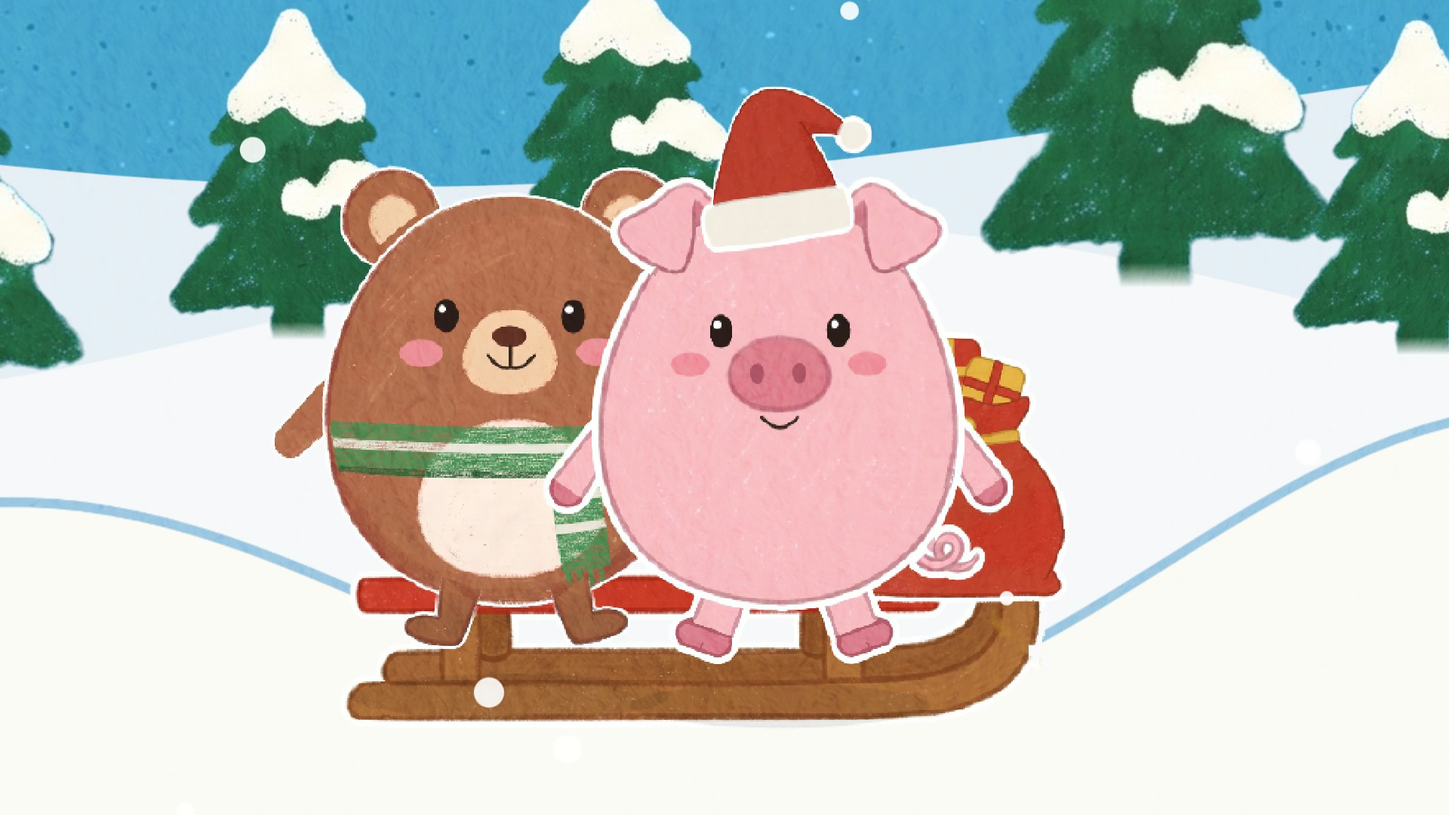
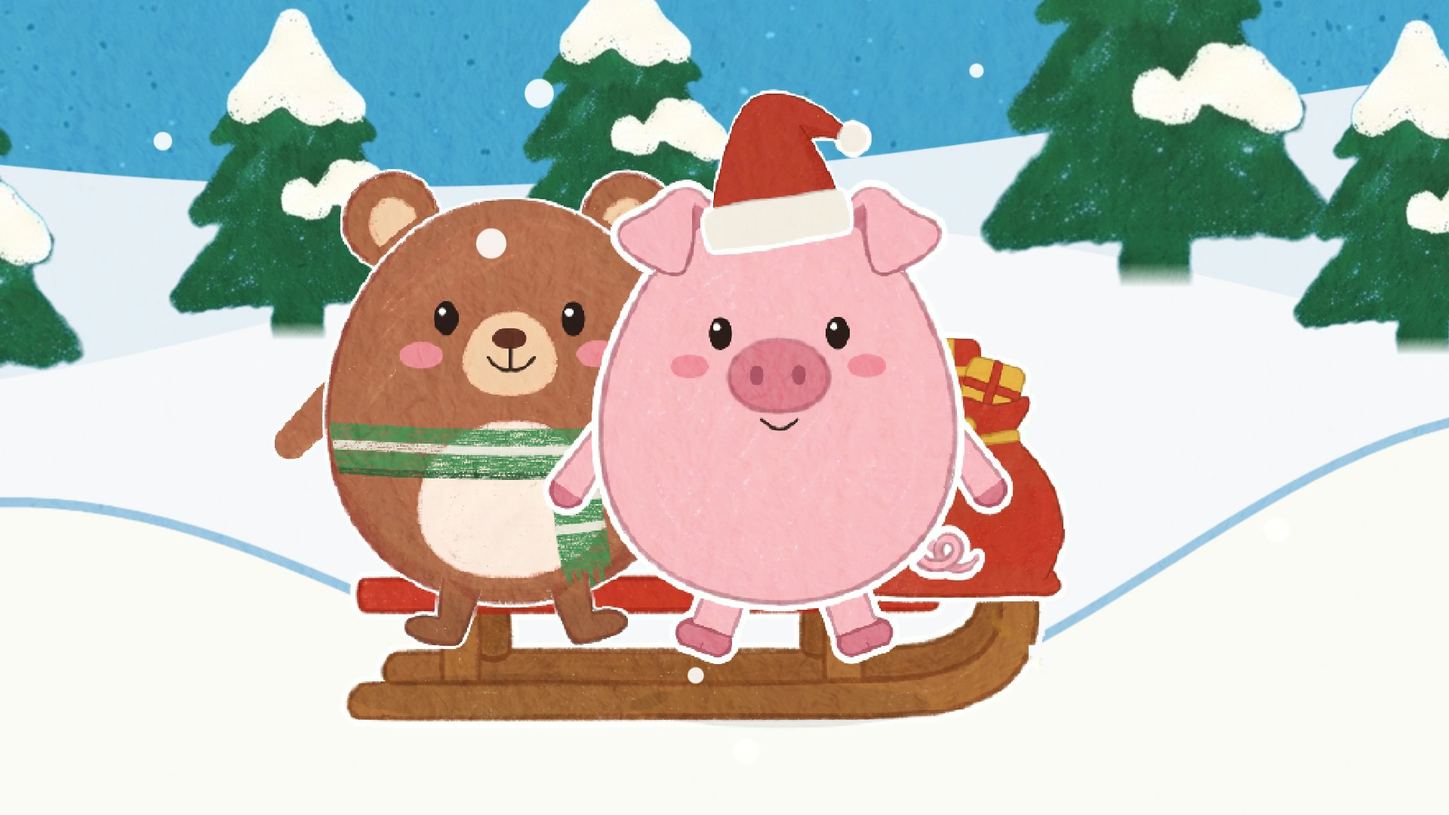
J04 Grisen åker pulka: QA 26/11 fixad – björnen bär säcken till nosen, står bakom pulkan när den knuffar, drivan växer ur snön, större kullåk, tydligare fast-läge (185,7 s, uppladdad som J04 granska)

diff --git a/produktion/youtube/shorts/jul/05-grisen-pulka/index.html b/produktion/youtube/shorts/jul/05-grisen-pulka/index.html
@@ -32,7 +32,7 @@ const STA = new URLSearchParams(location.search).has('staende');   // stående: 
 const KDRIVA = STA ? [620, 1300, 1.6] : [1060, 570, 1.4], KTVA = STA ? undefined : [1050, 470, 1.3];   // närbilderna (kam, bildens pixlar): pulkan i drivan, grisen och björnen
 const PULKABACKEN = '/assets/bakgrunder/pulkabacken/pulkabacken.jpeg';   // Sanna 2026-11-17: tagning 3 (bakgrunder/pulkabacken.md)
 const AKER = 'jul/05-grisen-aker', glid = vid => ['glid', vid, 1, 11];   // glid-1 är en mycket tyst fil: styrka 11
-const BX = -720;   // björnens plats bakom pulkan
+const BX = -790;   // björnens plats bakom pulkan (QA 26/11: −720 → −790, björnen står bakom pulkan med tassarna på lasten när den knuffar, inte inne i den)
 // säcken (assets/rekvisita/sack-paket, kritan ritar den): på sitsen bakom grisen (S), och framme vid pulkans nos (F) när björnen ska sitta. Från grisen, scenens mått
 const [SX, SY, FX, FY, SS] = [-340, -50, 280, -60, 0.5], [SX0, SY0] = [-620, 32];   // 11-19 (feedback J04 1:19): 30 högre upp på kälken   // SX0, SY0: där kritan ritar den (11-18 kväll), på sitsen längre bak
 const [DX, DY] = [350, 160], ST = 130, BS = 3 * ST, BL = BS + 90, AX = -400, KL = [120, 120], ARM = -16;   // drivan; knuffens längd; BS/BL: björnen efter knuffarna/när pulkan lossnat; AX: björnens plats på pulkan (närmare, 11-18)
@@ -46,7 +46,7 @@ const akning = (fran, till, D) => { const dt = 1 / 120, v = x => 1 - 0.55 * Math
 // 11-19 (feedback J04 1:19, "going on hills a longer time"): R1 börjar uppe på den höga kullen och åker över en låg kulle till (två wiii), R2 och R3 över tre kullar var
 const [D1, D2, D3] = [6.4, 10.4, 10.4], R1 = akning(KULL.P / 2, 2 * KULL.P, D1),
       R1N = R1.ner = [0.6, 1.6].map(f => Array.from({ length: Math.round(D1 * 120) }, (_, i) => R1.x(i / 120)).findIndex(u => u > f * KULL.P) / 120),
-      R2 = akning(0, 3 * KULL.P, D2), R3 = akning(3 * KULL.P, 6 * KULL.P, D3), ZV = 1.85;   // ZV: zoomen när de står still på kullarna (1,85 sedan 11-18 kväll: luvan och vinkningen får plats)
+      R2 = akning(0, 3 * KULL.P, D2), R3 = akning(3 * KULL.P, 6 * KULL.P, D3), ZV = 1.85, ZA = 1.6;   // ZA: zoomen under åken (QA 26/11)   // ZV: zoomen när de står still på kullarna (1,85 sedan 11-18 kväll: luvan och vinkningen får plats)
 const wiii = R => R.ner.map((v, i) => ['jul/05v2-wiii-' + (i % 3 + 1), 'Wiii!', v + 0.15]);   // 11-18 natt: Malins nya tagningar (manus v2), tre olika wiii
 // grundbilder (bildens pixlar): KE = grisen ensam, KW = med björnen, KW1–4 = kameran följer knuffarna
 const KE = [960, 480, 1.2], KW = [900, 500, 1.05], KW1 = [990, 500, 1.05], KW2 = [1080, 500, 1.05], KW3 = [1170, 500, 1.05], KW4 = [1230, 500, 1.05];   // KW 1,05 (11-18 kväll): björnen får plats
@@ -54,18 +54,26 @@ const KE = [960, 480, 1.2], KW = [900, 500, 1.05], KW1 = [990, 500, 1.05], KW2 =
 // rigg lindas så att vilan (som djur.js lägger på stilla-bitar) får nicken ovanpå
 // skaka: [sekunder, …] = grisen skakar surt på huvudet (1,4 s). Benen (11-19, feedback J04 2:13): alltid bakom kroppen, också när den sitter i pulkan
 // (djur.js pulka har benFram 1 för 039-stilen med benen fram)
-const V2 = window.v2rigg; window.v2rigg = async m => { const F = await V2(m); if (m !== 'grisen-greta') return F; const vila = F.vila, rita = F.rita;
+// björnen (QA 26/11, J04 2:06): när den bär säcken lyfts armarna window.BARLYFT() grader ovanpå knuffa-posen (räknas i scenen nedan)
+const V2 = window.v2rigg; window.v2rigg = async m => { const F = await V2(m);
+  if (m === 'bjornen-bulle') { const r0 = F.rita; F.rita = (g, f, p) => { const e = window.BARLYFT?.() ?? 0; return r0(g, f, e ? { ...p, armar: [(p.armar?.[0] ?? 0) + e, (p.armar?.[1] ?? 0) + e] } : p); }; return F; }
+  if (m !== 'grisen-greta') return F; const vila = F.vila, rita = F.rita;
   F.vila = (f, p, tt) => { const r = vila(f, p, tt), b = window.BITAR2?.findLast(q => tt >= q.t0), v = b?.nick?.find(v => tt - b.t0 >= v && tt - b.t0 <= v + 1.6),
     s = b?.skaka?.find(v => tt - b.t0 >= v && tt - b.t0 <= v + 1.4);
     return v != null ? F.nicka(r[0], r[1], tt - b.t0 - v) : s != null ? F.skakaHuvud(r[0], r[1], tt - b.t0 - s, 1.4, 2) : r; };
   F.rita = (g, f, p) => rita(g, f, { ...p, benFram: 0 });
   return F; };
+// QA 26/11: KSACK = grisen tittar bak på säcken, KMEDAR = närbild på medarna i drivan (bildens pixlar). KARM: björnens armar när den
+// knuffar, framåt mot lasten bak på pulkan (armarna är korta och sitter högt: pulkans sits når de inte från backen). BAR: björnen bär säcken (sekunder in i biten): steg = går N fram till säcken
+// [från, till], tag = tassarna på säcken, lyft = armarna lyfts [från, till] (lyftV grader, säcken över huvudet), ga = går [från, till] W fram, slapp = ställer ner säcken vid nosen; BARD = bitens längd
+const KSACK = STA ? undefined : [860, 540, 1.45], KMEDAR = STA ? undefined : [780, 800, 2.2], KARM = 30;
+const BAR = { steg: [0.1, 0.8], N: 70, tag: 0.9, lyft: [1.1, 1.8], lyftV: 95, ga: [1.8, 3.8], W: 560, slapp: 4.2, arm: -12 }, BARD = 6.8;
 const MED = (o = {}) => ({ 0: ['akmed', { x: AX, bak: true, ...o }] });
 const KOR = julDjur.kor({ kamBas: KE, ritIn: 1.4,
   tingrit: { sack: julDjur.ritbild('__ID__', 'sack-paket', 734, 808, [367, 806], SS, '#8E1E14') },
   lucka: 4, baddFil: 'assets/ljud/musik/jul/karol-jultomten.mp3', baddLangd: 180.01, baddVol: 0.3, djup: {}, tre: { z: { '#himmel': 1400 }, tack: ['#himmel'] }, figur: 'grisen-greta', vinkArm: [90, 18], sak: 'pulka', backe: STA ? 9 : 18, mys: false, ...(!STA && { bakgrund: PULKABACKEN }), vid: [STA ? 0.74 : 0.62, STA ? 880 : 790], snoa: true, sprut: [-640, -10],
   hattar: [[-1, 'luva', 512, 262, 0.36, -8]],   // 11-19: overall, jackor, vantar och stövlar bort (Sanna), bara luvan kvar
-  gaster: [['bjornen-bulle', BX, 1.0, 1]],
+  gaster: [['bjornen-bulle', BX, 1.0, 1]], gasterBak: [0],   // QA 26/11 (J04 1:50): björnen bakom säcken, pulkan och grisen hela tiden, inte inne i pulkan
   scen: [
     // A–B: det byggda. Kritan ritar pulkan, grisen blir glad, åker på backen, på kullarna (bara grisen) och på backen igen
     [2.9, 'vinka', { sag: [['jul/05v2-gris-hej', 'Nämen, hej grisen!', 0.5]], ljud: [['noff-gullig', 2.45, 7, 1.5, 1.5]] }],
@@ -96,7 +104,11 @@ const KOR = julDjur.kor({ kamBas: KE, ritIn: 1.4,
     [4.9, 'stilla', { armar: ARM, uttryck: 'forvanad', kam: KDRIVA, sag: [['jul/05v2-sjunker', 'Oj! Pulkan sjunker ner i snön.', 0.3], ['jul/05v2-tung', 'Säcken är så tung.', 2.9]] }],
     // D: grisen försöker glida, tre försök: pulkan sitter fast
     [4.4, 'ga', { armar: ARM, gang: [[0, 0], [0.8, -18], [1.6, 0], [2.4, -18], [3.2, 0]], glidar: true, uttryck: 'arg', nara: [0.8, 4.2], sag: [['jul/05v2-forsoker-aka', 'Grisen försöker åka.', 0.2], ['jul/05v2-sitter-fast-1', 'Nej, den sitter fast.', 2.0]], ljud: [['tra-knarr', 0.8, 1, 1.3], ['tra-knarr', 2.4, 2, 1.3], ['noff-gullig', 4.0, 4, 1.5, 1.0]] }],
-    [3.6, 'ga', { armar: ARM, gang: [[0, 0], [0.7, -18], [1.4, 0]], glidar: true, uttryck: 'arg', sag: [['jul/05v2-forsoker-igen', 'Grisen försöker igen.', 0.1], ['jul/05v2-sitter-fast-2', 'Den sitter fast.', 1.7]], ljud: [['tra-knarr', 0.7, 1, 1.3]] }],
+    // QA 26/11 (J04 0:57–1:23, varje försök såg likadant ut): grisen tittar bak på säcken, närbild på medarna i drivan, en suck, och andra försöket gungar större
+    [2.0, 'stilla', { armar: ARM, uttryck: 'forvanad', titt: [-9, 1], kam: KSACK, ljud: [['noff-djup', 0.9, 1, 1.2, 0.8]] }],
+    [2.0, 'stilla', { armar: ARM, uttryck: 'arg', kam: KMEDAR, tipp: [[0.3, 0.9, 1.5], [1.0, 1.6, 1.5]], ljud: [['tra-knarr', 0.35, 2, 1.1], ['tra-knarr', 1.05, 1, 1.0]] }],
+    [1.8, 'stilla', { armar: ARM, uttryck: 'ledsen', ljud: [['gran-suck', 0.25, 2, 1.4]] }],
+    [3.8, 'ga', { armar: ARM, gang: [[0, 0], [0.6, -34], [1.5, 0]], tipp: [[0.4, 1.7, 5]], glidar: true, uttryck: 'arg', sag: [['jul/05v2-forsoker-igen', 'Grisen försöker igen.', 0.1], ['jul/05v2-sitter-fast-2', 'Den sitter fast.', 1.9]], ljud: [['tra-knarr', 0.6, 1, 1.5], ['tra-knarr', 1.3, 2, 1.2]] }],
     // 11-19 (feedback J04 1:10, "more focus on grisen blir sur"): reaktionsslag i närbild, grisen fnyser och skakar surt på huvudet
     [2.8, 'stilla', { armar: ARM, uttryck: 'arg', nara: true, skaka: [0.7], ljud: [['fnys', 0.35, 1, 1.2], ['noff-djup', 1.6, 1, 1.3, 0.8]] }],
     [4.8, 'ga', { armar: ARM, gang: [[0, 0], [0.6, -18], [1.2, 0]], glidar: true, uttryck: 'ledsen', nara: [1.3, 4.8], sag: [['jul/05v2-trott', 'Grisen blir trött.', 1.6], ['jul/05v2-vad-gor-vi', 'Vad gör vi nu?', 3.6]], ljud: [['tra-knarr', 0.6, 1, 1.3], ['noff-gullig', 3.0, 4, 1.5, 1.0]] }],
@@ -106,18 +118,20 @@ const KOR = julDjur.kor({ kamBas: KE, ritIn: 1.4,
     // 11-18 natt (manus v2): Malin frågar björnen, björnen nickar och brummar ja
     [4.4, 'stilla', { armar: ARM, ser: [-60, 0], med: { 0: 'nicka' }, sag: [['jul/05v2-hjalpa-grisen', 'Björnen, kan du hjälpa grisen?', 0.2], ['jul/05v2-vill-hjalpa', 'Björnen vill hjälpa!', 2.9]], ljud: [['brum-gullig', 2.35, 2]] }],
     [2.8, 'stilla', { armar: ARM, uttryck: 'jatteglad', nara: true, naraDx: 230, sag: [['jul/05v2-gris-glad', 'Grisen blir så glad!', 0.5]], ljud: [['noff-fniss', 2.1, 1, 1.5, 0.7]] }],
-    [3.9, 'stilla', { armar: ARM, med: { 0: ['knuffa', { gang: [[0, 0]], knuff: [[1.9, 1e9]] }] }, sag: [['jul/05v2-stark', 'Björnen är stark.', 0.3], ['jul/05v2-kan-knuffa', 'Björnen kan knuffa!', 2.3]] }],
-    [7.0, 'stilla', { armar: ARM, med: { 0: ['knuffa', { gang: [[0, 0]], knuff: [[-1, 6.45]] }] }, sag: [['jul/05v2-hjalpa-till', 'Kan du hjälpa till?', 0.4], ['jul/05v2-heja', 'Kan du heja? Heja, grisen!', 1.8]] }],
+    [3.9, 'stilla', { armar: ARM, med: { 0: ['knuffa', { gang: [[0, 0]], knuff: [[1.9, 1e9]], armar: KARM }] }, sag: [['jul/05v2-stark', 'Björnen är stark.', 0.3], ['jul/05v2-kan-knuffa', 'Björnen kan knuffa!', 2.3]] }],
+    [7.0, 'stilla', { armar: ARM, med: { 0: ['knuffa', { gang: [[0, 0]], knuff: [[-1, 6.45]], armar: KARM }] }, sag: [['jul/05v2-hjalpa-till', 'Kan du hjälpa till?', 0.4], ['jul/05v2-heja', 'Kan du heja? Heja, grisen!', 1.8]] }],
     // F: tre heja, och för varje heja knuffar björnen pulkan ett stycke; kameran följer lugnt med
-    [3.4, 'ga', { armar: ARM, kamTill: [...KW1, 0.5, 1.6], gang: [[0, 0], [0.5, 0], [1.4, ST], [3.4, ST]], glidar: true, tipp: [[0.5, 1.6, 4]], heja: [[0.15, 1.5]], med: { 0: ['knuffa', { gang: [[0, 0], [0.5, 0], [1.4, 1 * ST], [3.4, 1 * ST]], knuff: [[0.5, 1.4]] }] }, sag: [['jul/05v2-heja-a', 'Heja!', 0.2]], ljud: [['dunk', 0.6, 1, 2.0], glid(0.7)] }],
-    [3.4, 'ga', { bas: KW1, kamTill: [...KW2, 0.5, 1.6], armar: ARM, gang: [[0, 0], [0.5, 0], [1.4, ST], [3.4, ST]], glidar: true, tipp: [[0.5, 1.6, 4]], heja: [[0.15, 1.5]], med: { 0: ['knuffa', { gang: [[0, 1 * ST], [0.5, 1 * ST], [1.4, 2 * ST], [3.4, 2 * ST]], knuff: [[0.5, 1.4]] }] }, sag: [['jul/05v2-heja-b', 'Heja!', 0.2]], ljud: [['dunk', 0.6, 2, 2.0], glid(0.7)] }],
-    [3.7, 'ga', { bas: KW2, kamTill: [...KW3, 0.5, 1.6], armar: ARM, gang: [[0, 0], [0.5, 0], [1.4, ST], [3.7, ST]], glidar: true, tipp: [[0.5, 1.6, 4]], heja: [[0.15, 1.5]], med: { 0: ['knuffa', { gang: [[0, 2 * ST], [0.5, 2 * ST], [1.4, 3 * ST], [3.7, 3 * ST]], knuff: [[0.5, 1.4]] }] }, sag: [['jul/05v2-heja-c', 'Heja!', 0.2]], ljud: [['dunk', 0.6, 3, 2.0], glid(0.7)] }],
-    [3.4, 'ga', { bas: KW3, kamTill: [...KW4, 0.5, 1.8], armar: ARM, gang: [[0, 0], [0.5, 0], [1.6, 90], [3.4, 90]], glidar: true, tipp: [[0.5, 1.6, 3]], med: { 0: ['knuffa', { gang: [[0, BS], [0.5, BS], [1.6, BL], [3.4, BL]], knuff: [[0.5, 1.6]] }] }, sjunk: [[0.5, 34], [1.3, 0]], ting: { driva: [[0.5, DX, DY, 2.0, 1, 0, 1], [1.2, DX, DY, 2.2, 0, 0, 1]] }, sag: [['jul/05v2-ror-sig', 'Nu rör den sig!', 1.0]], ljud: [['pulka-glid', 0.5, 4, 1.0], glid(0.6), ['noff-glad', 2.2, 1, 1.5, 1.2]] }],   // 11-18 natt: glad i stället för ännu ett fniss
+    [3.4, 'ga', { armar: ARM, kamTill: [...KW1, 0.5, 1.6], gang: [[0, 0], [0.5, 0], [1.4, ST], [3.4, ST]], glidar: true, tipp: [[0.5, 1.6, 4]], heja: [[0.15, 1.5]], med: { 0: ['knuffa', { gang: [[0, 0], [0.5, 0], [1.4, 1 * ST], [3.4, 1 * ST]], knuff: [[0.5, 1.4]], armar: KARM }] }, sag: [['jul/05v2-heja-a', 'Heja!', 0.2]], ljud: [['dunk', 0.6, 1, 2.0], glid(0.7)] }],
+    [3.4, 'ga', { bas: KW1, kamTill: [...KW2, 0.5, 1.6], armar: ARM, gang: [[0, 0], [0.5, 0], [1.4, ST], [3.4, ST]], glidar: true, tipp: [[0.5, 1.6, 4]], heja: [[0.15, 1.5]], med: { 0: ['knuffa', { gang: [[0, 1 * ST], [0.5, 1 * ST], [1.4, 2 * ST], [3.4, 2 * ST]], knuff: [[0.5, 1.4]], armar: KARM }] }, sag: [['jul/05v2-heja-b', 'Heja!', 0.2]], ljud: [['dunk', 0.6, 2, 2.0], glid(0.7)] }],
+    [3.7, 'ga', { bas: KW2, kamTill: [...KW3, 0.5, 1.6], armar: ARM, gang: [[0, 0], [0.5, 0], [1.4, ST], [3.7, ST]], glidar: true, tipp: [[0.5, 1.6, 4]], heja: [[0.15, 1.5]], med: { 0: ['knuffa', { gang: [[0, 2 * ST], [0.5, 2 * ST], [1.4, 3 * ST], [3.7, 3 * ST]], knuff: [[0.5, 1.4]], armar: KARM }] }, sag: [['jul/05v2-heja-c', 'Heja!', 0.2]], ljud: [['dunk', 0.6, 3, 2.0], glid(0.7)] }],
+    [3.4, 'ga', { bas: KW3, kamTill: [...KW4, 0.5, 1.8], armar: ARM, gang: [[0, 0], [0.5, 0], [1.6, 90], [3.4, 90]], glidar: true, tipp: [[0.5, 1.6, 3]], med: { 0: ['knuffa', { gang: [[0, BS], [0.5, BS], [1.6, BL], [3.4, BL]], knuff: [[0.5, 1.6]], armar: KARM }] }, sjunk: [[0.5, 34], [1.3, 0]], ting: { driva: [[0.5, DX, DY, 2.0, 1, 0, 1], [1.2, DX, DY, 2.2, 0, 0, 1]] }, sag: [['jul/05v2-ror-sig', 'Nu rör den sig!', 1.0]], ljud: [['pulka-glid', 0.5, 4, 1.0], glid(0.6), ['noff-glad', 2.2, 1, 1.5, 1.2]] }],   // 11-18 natt: glad i stället för ännu ett fniss
     // 11-18 kväll: "Hurra! Det gick!" när pulkan kommer loss (förut i dalen på slutet)
     [3.8, 'stilla', { bas: KW4, armar: ARM, uttryck: 'jatteglad', kam: KTVA, med: { 0: ['knuffa', { gang: [[0, BL]], knuff: [], uttryck: 'jatteglad' }] }, sag: [['jul/05v2-hurra', 'Hurra! Det gick!', 0.3], ['jul/05v2-kom-loss', 'Pulkan kom loss.', 2.1]], ljud: [['brum-gullig', 3.35, 2]] }],
-    // björnen vill sitta: den lyfter säcken från sin plats på sitsen och den glider i en låg båge fram till pulkans nos, och hoppar sedan upp bakom grisen
-    [3.4, 'stilla', { armar: ARM, ser: [-60, 0], med: { 0: ['lyfta', { vid: [0.4], dx: BL, lyftVinkel: 70 }] }, sag: [['jul/05v2-tillsammans', 'Nu kan ni åka tillsammans.', 0.2]], ting: { sack: [[0.5, SX, SY, 1, 1, 0, 1], [1.5, (SX + FX) / 2, SY - 110, 1, 1, 0, 1], [2.5, FX, FY, 1, 1, 0, 1]] }, ljud: [['dunk', 2.45, 2, 1.6]] }],
-    [3.2, 'stilla', { armar: ARM, ser: [-60, 0], med: MED({ hopp: [0.4, 1.4], fran: BL }), sag: [['jul/05v2-sitter-bak', 'Björnen sätter sig där bak.', 1.6]], ljud: [['hopp-mjuk', 0.4, 1], ['landa-mjuk', 1.35, 1]] }],
+    // björnen vill sitta: den tar säcken med tassarna, lyfter den och bär den bakom grisen fram till pulkans nos, ställer ner den och går tillbaka,
+    // och hoppar sedan upp bakom grisen. QA 26/11 (J04 2:06): förut flög säcken av sig själv bakom björnens öra. Tassarna ligger på säcken hela vägen (BAR nedan)
+    [BARD, 'stilla', { armar: ARM, ser: [-60, 0], med: { 0: ['knuffa', { gang: [[0, BL], [BAR.steg[0], BL], [BAR.steg[1], BL + BAR.N], [BAR.ga[0], BL + BAR.N], [BAR.ga[1], BL + BAR.N + BAR.W], [BAR.slapp + 0.5, BL + BAR.N + BAR.W], [BARD - 0.3, BL + BAR.N]], knuff: [[BAR.tag, BAR.slapp]], armar: BAR.arm, uttryck: 'glad' }] },
+      sag: [['jul/05v2-tillsammans', 'Nu kan ni åka tillsammans.', 0.2]], ting: { sack: [[BAR.lyft[0], SX, SY, 1, 1, 0, 1], [BAR.ga[1], FX, FY, 1, 1, 0, 1]] }, ljud: [['dunk', BAR.slapp + 0.3, 2, 1.4]] }],
+    [3.2, 'stilla', { armar: ARM, ser: [-60, 0], med: MED({ hopp: [0.4, 1.4], fran: BL + BAR.N }), sag: [['jul/05v2-sitter-bak', 'Björnen sätter sig där bak.', 1.6]], ljud: [['hopp-mjuk', 0.4, 1], ['landa-mjuk', 1.35, 1]] }],
     // 11-18 natt: reaktionsslag när björnen sitter bakom grisen – närbild, båda glada, innan de åker
     [1.8, 'stilla', { armar: ARM, uttryck: 'jatteglad', nara: true, med: MED({ uttryck: 'jatteglad' }), ljud: [['noff-fniss', 0.4, 1, 1.5, 1.0]] }],
     // G: åk på kullarna med björnen (utzoomat), "Kan du säga wiii?" i dalen, ett åk till, och slutet står kvar i dalen (Hurra, tack, hej då)
@@ -221,6 +235,7 @@ KOR.then(async () => {
   if (pulkaR) { pulkaR.before(pulkaG); pulkaG.append(pulkaR); }
   const rita = window.seek, boilD = svg.querySelector('#boil feDisplacementMap'), boilB = svg.querySelector('#boil-brus');
   window.seek = window.render = t => {
+    TNU = t;
     const pu = SAKB ? t - SAKB.t0 : -1; pulkaG.setAttribute('transform', pu > 0 && pu < SAKB.d ? `translate(${(PSK * (1 - mjuk(kl((pu - 5.95) / 0.85)))).toFixed(1)} 0)` : '');
     rita(t); djurG.removeAttribute('transform');
     const b = B.findLast(q => t >= q.t0) ?? {}, tl = t - b.t0, k = b.kullar, ute = !!k;
@@ -238,6 +253,9 @@ KOR.then(async () => {
       const [hx, hy] = hoppa(t); if (hx || hy) djurG.setAttribute('transform', `translate(${hx.toFixed(1)} ${(hy + (STA ? 0 : mark(X + hx) - Y1)).toFixed(1)})`);
       sakA?.setAttribute('transform', `rotate(${(ang * (1 - syns)).toFixed(2)})`);
       if (!STA) svg.querySelectorAll('#gaster > *').forEach(e => { const [gx] = tal(e.getAttribute('transform'), 'translate') ?? [0]; e.setAttribute('transform', `translate(${gx.toFixed(1)} ${mark(gx).toFixed(1)})`); });
+      // björnen står i #gasterbak (gasterBak, QA 26/11): djur.js ger rotate(…) translate(gx − X, …); här står den upprätt på backens kurva
+      if (bakG && med[0] !== 'akmed') { const gx = (tal(bakG.getAttribute('transform'), 'translate') ?? [0])[0] + X;
+        bakG.setAttribute('transform', mx(A1.inverse().translate(gx, STA ? gx * Math.tan(BACKE * Math.PI / 180) : mark(gx)))); }
     } else {
       // på kullarna: åkaren i bildens pixlar på kullen (x − cam, yF), vriden efter backen och förminskad
       x = k.ak ? k.ak.x(tl) : k.vila; cam = Math.min(VARLD - VW, Math.max(-200, x - VW * (STA ? 0.5 : 0.42)));
@@ -270,42 +288,58 @@ KOR.then(async () => {
       if (kt && (naraNu(b, tl) || (b.kam && !b.kamTill))) { const z = 1 + 0.06 * Math.min(1, tl / b.d); kamera.setAttribute('transform', `translate(${VW / 2} ${VH * 0.5}) scale(${z.toFixed(4)}) translate(${-VW / 2} ${-VH * 0.5}) ${kt}`); }
     } else {
       kamera.removeAttribute('transform');
+      // QA 26/11 (J04 0:32 och 2:16, åkarna var 15–20 % av bilden): under åken zoomar kameran in (ZA) och följer åkaren i sidled, med bildens
+      // höjd följd till hälften (kameran gungar lugnt med kullarna), så att grisen (och björnen) blir ca en tredjedel av bildhöjden och alltid ryms
+      const akKam = x => [Math.min(0, Math.max(VW - VW * ZA, VW * 0.46 - (x - cam) * ZA)), Math.min(0, Math.max(VH - VH * ZA, VH * 0.8 - ZA * (0.5 * yF(x) + 0.5 * (Y0 - 0.55 * A)))), ZA];
+      if (k.ak) { const [tx, ty] = akKam(x); kamera.setAttribute('transform', `translate(${tx.toFixed(1)} ${ty.toFixed(1)}) scale(${ZA})`); }
       if (!k.ak) { const nu = naraNu(b, tl), f = (([fx, fy]) => [fx + (b.naraDx ?? 0), fy])(ansikte()), Z = nu ? ZV * 1.7 : ZV, [tx, ty] = kamPa(nu ? f : [x - cam - 40, yF(x)], Z, nu ? 0.5 : 0.88);   // 0,88 (11-18 kväll): luvans topp syns
-        const e = k.in && !nu ? mjuk(kl(tl / 1.8)) : 1, z = nu ? 1 + 0.06 * Math.min(1, (tl - b.nara[0]) / (b.d - b.nara[0])) : 1;
-        kamera.setAttribute('transform', `translate(${VW / 2} ${VH * 0.5}) scale(${z.toFixed(4)}) translate(${-VW / 2} ${-VH * 0.5}) translate(${(tx * e).toFixed(1)} ${(ty * e).toFixed(1)}) scale(${lerp(1, Z, e).toFixed(4)})`); }
+        const e = k.in && !nu ? mjuk(kl(tl / 1.8)) : 1, z = nu ? 1 + 0.06 * Math.min(1, (tl - b.nara[0]) / (b.d - b.nara[0])) : 1, [ax, ay, az] = akKam(x);   // in: glider från åkets bild
+        kamera.setAttribute('transform', `translate(${VW / 2} ${VH * 0.5}) scale(${z.toFixed(4)}) translate(${-VW / 2} ${-VH * 0.5}) translate(${lerp(ax, tx, e).toFixed(1)} ${lerp(ay, ty, e).toFixed(1)}) scale(${lerp(az, Z, e).toFixed(4)})`); }
     }
-    kasta(t);
+    bara(t); driva();
     // 11-25 (QA J04, boil median 5,0 px/s): line boil 2,5 px i bild, alltså skalan delad med kamerazoomen och satt varje bildruta, och ny brusbild
     // 6 gånger/s (CLAUDE.md). djur.js har en fast skala 3 och 8 byten/s; här skrivs den över, djur.js är orörd. WebGL-ritaren läser samma värden
     boilD?.setAttribute('scale', (2.5 / (kamera.transform.baseVal.consolidate()?.matrix.a ?? 1)).toFixed(3));
     boilB?.setAttribute('seed', 1 + Math.floor(t * 6) % 4);
     window.TRE?.();   // three.js (djur.js tre): tecknas om när allt står på plats
   };
-  // 11-25 (QA J04 2:06, säcken åkte bakom och genom grisen och björnen rörde den inte): björnens tass närmast grisen ligger på säckens axel
-  // och säcken följer den när armarna lyfts (KG till KS) och kastar den i en hög båge över grisens luva, så att den landar vid pulkans nos (KL, dunk 2,45).
-  // Räknas i bildens pixlar (kameran står still på biten) och läggs på säckens translate i det lager den ligger i
-  const KAST = sackG && B.find(q => q.sag?.some(s => s[0] === 'jul/05v2-tillsammans')), [KG, KS, KL] = [0.3, 0.9, 2.45];
+  // QA 26/11 (J04 2:06, säcken flög av sig själv bakom björnens öra): björnen tar säcken med båda tassarna (knuffa-posen, armarna fram mot den),
+  // lyfter den (BARLYFT) och bär den bakom grisen fram till nosen, där den ställs ner (BAR). Säcken följer tassarna exakt: säckens fot = tassarnas
+  // mittpunkt + avståndet när tassarna nådde den (mätt en gång); när armarna lyfts glider greppet ner under säcken, som bärs över huvudet. Räknas i bildens pixlar och läggs på säckens translate i det lager den ligger i
+  let TNU = 0; const BARB = sackG && B.find(q => q.sag?.some(s => s[0] === 'jul/05v2-tillsammans'));
+  const bu = () => BARB ? TNU - BARB.t0 : -1;
+  window.BARLYFT = () => { const u = bu(); if (u < 0 || u > BARB.d) return 0;
+    return BAR.lyftV * mjuk(kl((u - BAR.lyft[0]) / (BAR.lyft[1] - BAR.lyft[0]))) * (1 - mjuk(kl((u - BAR.slapp + 0.45) / 0.45))); };
   const vis = e => { for (let a = e; a && a !== svg; a = a.parentElement) if (a.getAttribute('display') === 'none' || a.style.display === 'none' || a.getAttribute('opacity') === '0') return false; return true; };
   const pa = (e, x, y) => new DOMPoint(x, y).matrixTransform(e.getScreenCTM());
-  // björnens tass närmast grisen (högra armbilden, handen spegelvänd mot HANDV i djur.js) i bildens pixlar
-  const tass = () => { const im = [...svg.querySelectorAll('#gaster > * image.arm-r')].find(vis); if (!im) return null;
-    const w = +im.getAttribute('width') / 1024, h = +im.getAttribute('height') / 1024; return pa(im, +(im.getAttribute('x') ?? 0) + 844 * w, +(im.getAttribute('y') ?? 0) + 618 * h); };
-  let KM = null;   // mätt en gång: säckens fot vid start och landning, tassen vid greppet, där kastet släpper och luvans topp
-  function kasta(t) {
-    const u = KAST ? t - KAST.t0 : -1; if (!KM || u <= KG || u >= KL + 0.1) return;
-    let p;
-    if (u < KS) { const q = tass() ?? KM.T0; p = [KM.S[0] + q.x - KM.T0.x, KM.S[1] + q.y - KM.T0.y]; }   // tassen ligger på säckens axel: säcken följer den
-    else if (u < KL) { const v = (u - KS) / (KL - KS), H = lerp(KM.R[1], KM.F[1], 0.5) - KM.topp;   // först rakt upp, sedan över luvan och ner
-      p = [lerp(KM.R[0], KM.F[0], mjuk(kl((v - 0.15) / 0.65))), lerp(KM.R[1], KM.F[1], v) - H * Math.sin(Math.PI * v)]; }
-    else p = KM.F;
+  // björnens tassar på säckens sida (högra armen och dess kopia i riktningsposen; handen spegelvänd mot HANDV i djur.js), medel i bildens pixlar
+  const tassar = () => { const q = [...svg.querySelectorAll('#gasterbak > * image.arm-r, #gasterbak > * image.arm-r2')].filter(vis).map(im => {
+      const w = +im.getAttribute('width') / 1024, h = +im.getAttribute('height') / 1024; return pa(im, +(im.getAttribute('x') ?? 0) + 844 * w, +(im.getAttribute('y') ?? 0) + 618 * h); });
+    return q.length ? [q.reduce((v, p) => v + p.x, 0) / q.length, q.reduce((v, p) => v + p.y, 0) / q.length] : null; };
+  const fot = () => { const q = pa(sackG, 0, 0); return [q.x, q.y]; };
+  let BM = null;   // avståndet tassar → säckens fot när tassarna tar den
+  function bara(t) {
+    const u = bu(); if (!BM || u <= BAR.tag || u >= BAR.slapp + 0.4) return;
+    const c = mjuk(kl((u - BAR.tag) / 0.25)) * (1 - mjuk(kl((u - BAR.slapp) / 0.4))), h = tassar(); if (!h) return;
+    const f0 = fot(), dy = lerp(BM[1], 12, window.BARLYFT() / BAR.lyftV), p = [lerp(f0[0], h[0] + BM[0], c), lerp(f0[1], h[1] + dy, c)];   // över huvudet: tassarna under säcken
     const q = new DOMPoint(...p).matrixTransform(sackG.parentNode.getScreenCTM().inverse());
     sackG.setAttribute('transform', sackG.getAttribute('transform').replace(/translate\([^)]*\)/, `translate(${q.x.toFixed(1)} ${q.y.toFixed(1)})`)); }
-  if (KAST) { const fot = () => { const q = pa(sackG, 0, 0); return [q.x, q.y]; };
-    window.seek(KAST.t0 + 0.2); const S0 = fot();
-    window.seek(KAST.t0 + KL + 0.3); const F0 = fot(), lu = [...svg.querySelectorAll('#djur image')].find(i => /tomteluva/.test(i.getAttribute('href')) && vis(i)).getBoundingClientRect();
-    window.seek(KAST.t0 + KG); const T0 = tass();
-    window.seek(KAST.t0 + KS); const r = tass();
-    KM = { S: S0, F: F0, T0, R: [S0[0] + r.x - T0.x, S0[1] + r.y - T0.y], topp: lu.top + 0.15 * lu.height }; }
+  // QA 26/11 (J04 0:58, drivan såg påklistrad ut): drivan växer ur snön. Kontur bara längs toppen (tonas ut i ändarna), fyllningen tonas
+  // nedåt mot backens snö och går en bit under marken, och drivan ligger längs backen där den står (inte vriden som pulkan)
+  const drivaG = svg.querySelector('#ting-driva');
+  if (drivaG) { const topp = 'M-340 0 Q-300 -4 -255 -30 Q-240 -50 -190 -52 Q-150 -92 -80 -70 Q-20 -110 50 -78 Q120 -100 170 -58 Q230 -50 255 -28 Q300 -4 340 0';
+    drivaG.innerHTML = `<linearGradient id="driva-fyll" gradientUnits="userSpaceOnUse" x1="0" y1="-100" x2="0" y2="46"><stop offset="0" stop-color="#fff"/><stop offset=".62" stop-color="#FCFAF5"/><stop offset=".8" stop-color="#F7F2E8" stop-opacity=".9"/><stop offset="1" stop-color="#F7F2E8" stop-opacity="0"/></linearGradient>
+      <linearGradient id="driva-kant" gradientUnits="userSpaceOnUse" x1="-300" y1="0" x2="300" y2="0"><stop offset="0" stop-color="#C9DCEC" stop-opacity="0"/><stop offset=".22" stop-color="#C9DCEC"/><stop offset=".78" stop-color="#C9DCEC"/><stop offset="1" stop-color="#C9DCEC" stop-opacity="0"/></linearGradient>
+      <g class="driva-mark"><path d="${topp} L340 46 L-340 46 Z" fill="url(#driva-fyll)"/><path d="${topp}" fill="none" stroke="url(#driva-kant)" stroke-width="9" stroke-linecap="round" stroke-linejoin="round"/></g>`; }
+  const drivaM = drivaG?.querySelector('.driva-mark');
+  function driva() {
+    if (!drivaM || STA || drivaG.getAttribute('opacity') === '0' || svg.querySelector('#kullar').getAttribute('display') !== 'none') return drivaM?.removeAttribute('transform');
+    drivaM.removeAttribute('transform');
+    const K = DOMMatrix.fromMatrix(kamera.getScreenCTM().inverse().multiply(drivaG.getScreenCTM())), p = new DOMPoint(0, 0).matrixTransform(K);   // drivans fot i plattans pixlar
+    const vrid = plV(p.x) - Math.atan2(K.b, K.a) * 180 / Math.PI, dy = plY(p.x) + 14 - p.y;   // 14: foten lite ner i snön
+    const d = K.inverse().transformPoint(new DOMPoint(p.x, p.y + dy)), o = K.inverse().transformPoint(p);
+    drivaM.setAttribute('transform', `translate(${(d.x - o.x).toFixed(1)} ${(d.y - o.y).toFixed(1)}) rotate(${vrid.toFixed(2)})`); }
+  if (BARB) { window.seek(BARB.t0 + BAR.tag + 0.25); const h = tassar(), f = fot(); BM = [f[0] - h[0], f[1] - h[1]]; }
   // tre: WebGL-ritaren laddar en bild första gången den syns, och kullarna lades till efter att ritaren skapades. Visa kullarna en gång
   // och vänta in granarna, annars saknas de i kullarnas första bildruta (och i första rutan av en renderingsbit som börjar där)
   svg.querySelectorAll('.flinga2').forEach(e => e.setAttribute('display', 'none'));

diff --git a/produktion/youtube/julkalender-parkerade.md b/produktion/youtube/julkalender-parkerade.md
@@ -9,7 +9,7 @@ Mapparna har kvar sina gamla nummer i namnet; numret i `index.html` (`lucka: N`)
 | 1 | J01 | `20-kaninen-aker-pulka` | 039 hel video, granska. QA 25/11: korgnärbilden (3:07) utan kaninen halvt vid kanten, kaninen skuttar fram fritt bredvid pulkans nos och hoppar upp över nosen ner i sitsen (3:50, gick förut genom pulkan), line boil 2,5/zoom 6 ggr/s i scenkoden. Förhandsvisning `20-kaninen-aker-pulka-qa2511.mp4` uppladdad som J01 (granska); tveksamma punkter (0:28, 1:16, 1:33, 3:27 dörren, 3:57 pausen, 4:25 vinken) ställda till Sanna; **QA 25/11 b** (Sannas ja): kritan går nu genom `verktyg/kritan-ritar.js` (tunn kant, 125°/140° med lugnt svaj, skala 0,42 på papperet och 0,33/√zoom i scen, mörk kritlinje, ritfart, fyllning inifrån med linjen som tonas bort, de fem krit-gnistorna i stället för smulor och stjärnor; ritintrots kontur 5 → 2,8 s, kritan in och ut uppe till höger på papperet; i hallen och backen kommer den fortfarande från vänster så att den inte går över kaninens ansikte) och vinken är riggens `ARMROR.vinka` i rad 1 och 40–41 (förut egen 150 ± 20, nu höjd 30° ± 16° bakom kroppen, vanten vänds efter armens väg). `qa-scen.py` utan anmärkningar; `qa-film.sh` flaggar bara rörelse (hoppen in, åkningen, slutet) som förut. Förhandsvisning `20-kaninen-aker-pulka-qa2511b.mp4` (scenen utan kalenderramen) uppladdad som J01 (granska). Slutrendering (`render-delat.mjs` + `film/satt-ihop.sh` + luckan med 3D-introt) väntar på Sannas ja. **QA 26/11 rättad 27/11** (`qa-2611/J01.md`, Sanna "fix all"): ritintrot ritar pulkans kontur + 4 detaljstreck (meden, stolparna, sitsen) med `ritBana`, rad 01a 6 → 7 s; inga vindstreck och ingen snö genom dörren (0:44 dörren gläntar med kallt ljus, huttrandet och vindljudet kvar); närbilden 0:39 är en riktig närbild (zoom 3,15, huvudet 7 % från överkanten; samma K_ANSIKTE i 1:53 och 2:59); andra rosa vanten flyger upp på första kroken (i en båge ovanför öronen) i stället för att sväva 30 s, och faller i 2:51 från kroken, glider över golvet in bakom korgen (ingen vind, vindljudet där borttaget); 3:27 dörren glider upp, kaninen hoppar in i öppningen och svepet börjar när den landar; andra åket: "En gång till!" vid drivan, klipp till krönet (ingen uppvandring utan snöre), kameran följer pulkan; `tindra-4` i 3D-introt (skarva.sh byggde om introt ur rum.js); rad 18 0,6 s kortare. Luckan 4:37 → 4:35 (4:00 går inte utan att ta bort innehåll). Förhandsvisning (`--snabb`) `20-kaninen-aker-pulka-qa2711.mp4` uppladdad som J01 (granska); den godkända luckan och avsnittsfilmen är orörda (gamla i `aldre/*-fore-qa2611.mp4`). Slutrendering väntar på Sannas ja |
 | 2 | J02 | `07-lammet-julkula` | granska. Filmen visar redan lucka 2 (kodlucka, renderad 18/11). QA 25/11: hunden gick igenom lammet och stod inne i julgransfoten (02:06–02:15) – nu kliver den fram (lägre golvlinje, lite större) och går förbi framför lammet och står framför foten, både dit och tillbaka. Förhandsvisning `07-lammet-julkula-qa2511.mp4` uppladdad som J02 (granska). **Feedback 26/11 (0:24):** brasans fladdrande kopia klipps som en låga (topp y 612 mellan strumporna, sträcks högst 10 %) i stället för en fyrkant vars överkant gick in i strumpan, och skenet ligger ovanpå kopian (ingen mörk kant runt lågorna); granens sidoklipp −142 → −110 så att de nedersta gröna bågarna syns hela; line boil delad med kamerazoomen varje bildruta och ny brusbild 6 ggr/s (1,5 px i bild, Sannas halvering från 18/11 – 2,5 gav boil film 4,6 > 4,5; nu 3,3). `qa-film.sh` utan anmärkningar. Förhandsvisning `07-lammet-julkula-fb2611.mp4` (3D-intro och 3D-outro från förra slutfilmen, ljudet från den) uppladdad som J02 (granska). **Slutrenderad 26/11** (Sannas ja): `render-delat.mjs` + `mastra.sh` (−16,2 LUFS, papperstextur, 3D-intro och 3D-outro), 2:44, `qa-film.sh` utan anmärkningar; uppladdad som J02 (granska) **QA 27/11** (Sannas "fix all", rapporten `qa-2611/J02.md`): kritan ritar genom `verktyg/kritan-ritar.js` i luckans egen `index.html` (silverkulan 0:21, spaden 1:18, kvasten 1:21, nya kulan 2:00: kontur + detaljstreck, ritfart, in och ut uppifrån, fyllning inifrån, krit-gnistor; `lucka.js`/`djur.js` orörda, djur.js-kritan döljs); spegelbilden (0:31) med lammets ansikte helt med bredvid kulan; fallet (1:06) med kameran in på lammet, kulan och golvet och ett reaktionsslag på skärvorna (biten 2,6 → 3,4 s); hunden går bakom lammet till granen och tillbaka (2:07, 2:14) och kulan hänger bakom lammets arm; "Kan du också sopa?" (1:27) och lammets arm drar kvasten; slutet: närbild på kulan som gungar bredvid lammet på "Leker ni gungande julkulor?" (2:23–2:27), kritan syns ca 0,7 s före "Tack, kritan!" (2:32), hej då i halvnära (2:35). Line boil kvar på 1,5 px (väntar på Sannas svar). `tindra-2` i `3d/tider.json` byts till `tindra-4` av sig själv när skarva.sh körs i slutrenderingen (rum.js har redan tindra-4). Förhandsvisning `07-lammet-julkula-qa2711.mp4` (3D-intro och 3D-outro från förra slutfilmen) uppladdad som J02 (granska). Slutrendering väntar på Sannas ja |
 | 3 | J03 | `21-leoparden-gar-och-lagger-sig` | granska, QA 27/11 (Sanna "fix all", `shorts/jul/qa-2611/J03.md`): lägger sig direkt efter "Så trött", gäspar och "God natt" liggande; tandkrämen redan på borsten (ingen tub); närbilderna med hela huvudet, halvnära med öron och fötter; kritan via kritan-ritar.js med detaljstreck (ritintrot och stjärnan i fönstret), 4,5 s gisspaus; inga blåsstreck, rökslinga; mörkblå natt med varmt sken; `21-borsta-2` omklippt (slutet saknades); --snabb-lucka med 3D-ramen (4:01) på feedbacksidan; kvar: 1,5 s svart före 3D-stängningen; slutrendering (render-delat + satt-ihop + hel-video.sh) efter Sannas ja |
-| 4 | J04 | `05-grisen-pulka` | granska. Feedback 19/11 runda 3 fixad (rent inåk från vänster efter kullarna utan baklängesryck och svävande snö, grön halsduk på björnen som i tittut); runda 2: förvånad närbild på säcken, sur närbild med fnys och huvudskak, benen bakom kroppen, städade granar. 176,3 s, −16 LUFS, ingen overall. QA 25/11 fixad: björnen lyfter säcken med tassen och kastar den i en båge över luvan till nosen (förut åkte den genom grisen), närbilderna 1:34 och 2:41 utan halv björn (ur bild resp. hela ansiktet), boil 2,5/zoom och 6/s i luckans kod, skuttljud mot tystnaden 0:15. Kodlucka: filmen är luckan (nr 4 och intro inbyggda), byggs med `render-delat.mjs` + `mastra.sh`, ingen hel-video.sh |
+| 4 | J04 | `05-grisen-pulka` | granska. QA 26/11 fixad (27/11, 185,7 s, uppladdad som J04 granska): björnen tar säcken med tassarna, lyfter den över huvudet, bär den bakom grisen till nosen och ställer ner den (förut flög den själv, 2:12–2:18); björnen står bakom pulkan och säcken hela tiden (`gasterBak`), knuffar mot lasten bak på pulkan (1:54–2:08; armarna är för korta för sitsen); drivan växer ur snön utan kontur undertill och ligger längs backen; kullåken zoomade (ZA 1,6, ca 35–40 % av bildhöjden, 0:32–0:38 och 2:25–2:49); fast-läget 1:12–1:18: grisen tittar bak på säcken, närbild på medarna i drivan, en suck (gran-suck), andra försöket gungar större. Öppet: kritan via `kritan-ritar.js` och prenumerera-kortet (frågor till Sanna). Feedback 19/11 runda 3 fixad (rent inåk från vänster efter kullarna utan baklängesryck och svävande snö, grön halsduk på björnen som i tittut); runda 2: förvånad närbild på säcken, sur närbild med fnys och huvudskak, benen bakom kroppen, städade granar. 176,3 s, −16 LUFS, ingen overall. QA 25/11 fixad: björnen lyfter säcken med tassen och kastar den i en båge över luvan till nosen (förut åkte den genom grisen), närbilderna 1:34 och 2:41 utan halv björn (ur bild resp. hela ansiktet), boil 2,5/zoom och 6/s i luckans kod, skuttljud mot tystnaden 0:15. Kodlucka: filmen är luckan (nr 4 och intro inbyggda), byggs med `render-delat.mjs` + `mastra.sh`, ingen hel-video.sh |
 | 5 | J05 | `13-tre-pussel` | granska. 3D-ramen, lucka 5 (renderad 25/11). QA 26/11 fixad 27/11: första biten kommer in på "Ja!" i varje pussel (`BIT_PA_JA` i `pussel-prov.py`, bara lucka 13), ingen tom bricka; gissningspauserna orörda (Sanna: "keep guessing pauses"), bit 1–2 fortfarande tysta. Pusslet 115 s, luckan 129,0 s (förut 133,6), −16,1 LUFS; uppladdad som J05 (granska) |
 | 6 | J06 | `06-katten-hittar-julklappar` (ny) | 035 Katten hittar julklappar, bilderbok, hel video (`fran: 3.34`, utan julvarianten av bilderboksintrot). Ersätter tittut med björnen (`06-tittut-bjornen`, parkerad, id JP-tittut-bjornen). Godkänd film (klar på feedbacksidan). Feedback 22/11 b fixad: blå björkdungen i stället för Snögården, större katt, nya kattljud (Sannas `mjau-aah/-fraga/-glad/-prat` + 044:s), inget kodsnöre på pulkan, *"Det är julafton!"* bort, outrot zoomar in på ansiktet. Film 237,1 s, lucka 247,5 s, −16,0 LUFS, uppladdad som J06 (granska). Sanna 2026-11-22 QA 25/11: spårbilden (035 rad 3) har ingen halv katt i vänsterkanten längre (`K_SPAR` 3,3 med lugn push in). Hörnet vid trappan var redan rättat i koden. Slutrenderad 25/11 (Sannas ja): film 238,8 s, lucka 249,1 s, −16,0 LUFS, qa-film.sh utan fel, uppladdad som J06 (granska). Feedback 25/11 "polish cat tail" (2:54) rättad i Kajs rigg: svansens rot utan klump (`cut-tunn/kaj-tail.png`), vippen mjukt begränsad till 4° in / 7° ut (`uttryck.html`). Snabb scenfilm uppladdad som J06 (granska); slutrendering och ny lucka efter Sannas ja. **Feedback 26/11 fixad:** 0:22 teckningen ritar efter konturen rosettens knut, snibbarna, locket och bandkorset (`PAK_DRAG`), 1:04 svansen utan knöl (scenfilmen 25/11 hade gamla roten; nu nya `cut-tunn/kaj-tail.png`, en ljus prick i böjen borttagen). `--snabb` + `satt-ihop.sh` + `hel-video.sh` (3D-ramen): lucka 249,1 s, −16,0 LUFS, `qa-film.sh` utan anmärkningar, uppladdad som J06 (granska). Slutrendering efter Sannas ja. |
 | 7 | J07 | `07-hunden-ater-julmat` (ny) | 036 Hunden äter julmat, hel video (`fran: 3.34`, utan bilderboksintrot). QA 25/11 fixad: pölbildens kamera (`K_PUL`) åt vänster så att hundens vänstra öra inte kapas, ljusstaksnärbilden (rad 2) glider långsamt närmare i stället för att stå still 3,9 s. Slutrendering 26/11 (036 slutrenderad, 6715 bildrutor; film 227,2 s, lucka 237,3 s = 3:57, −16,0 LUFS, 3D-ramen), QA ren, uppladdad som J07 (granska). Öppet: mjölkglaset lyfter sig själv till munnen (fråga Sanna). Sanna 2026-11-19 |
